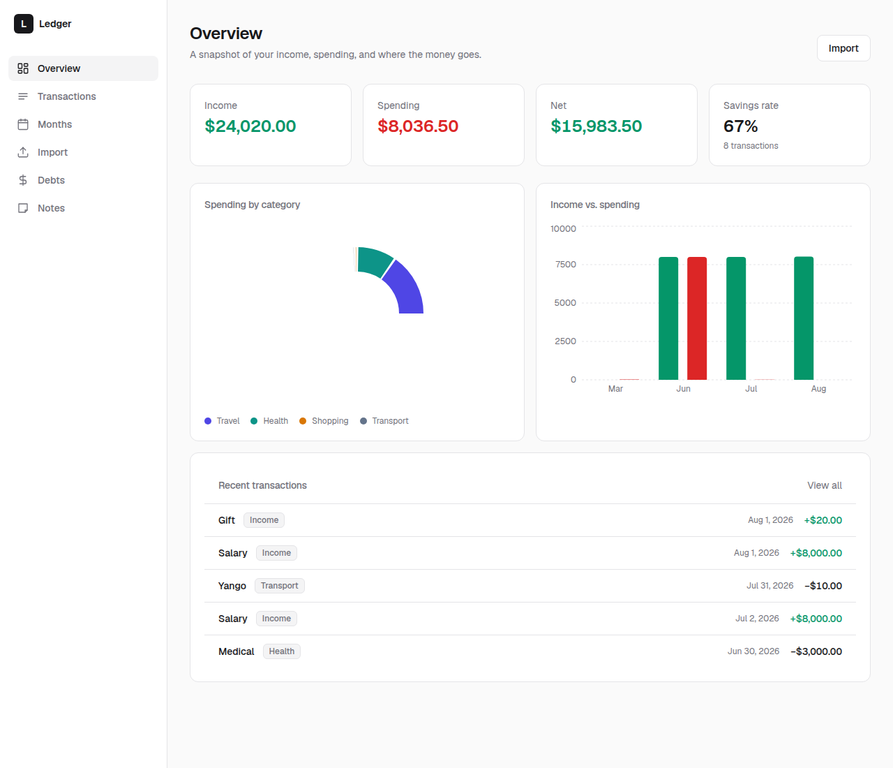
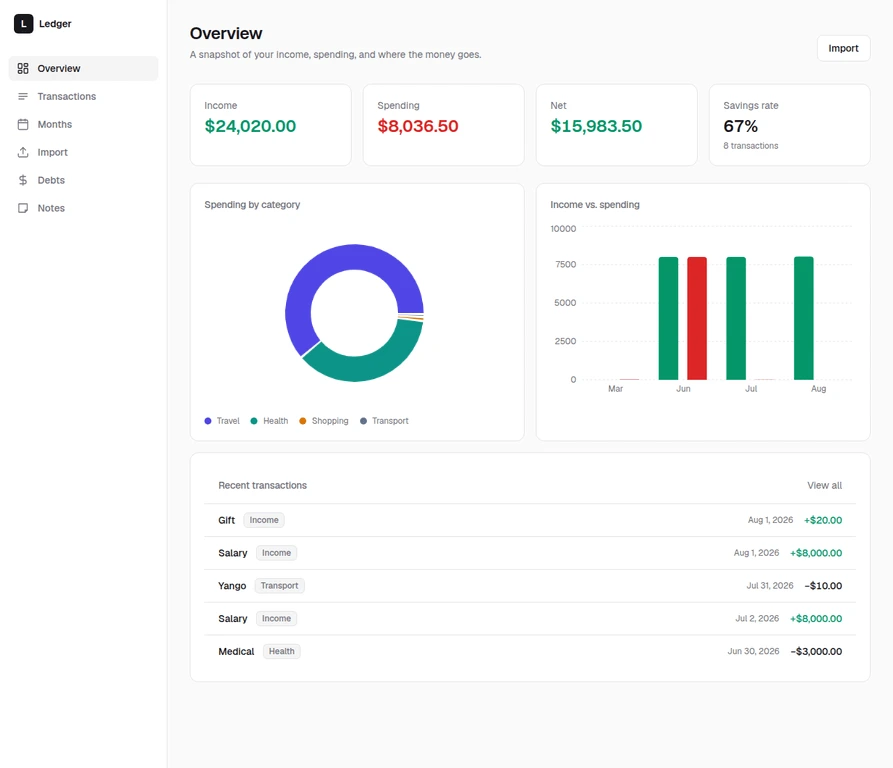
Update project previews: fix resume button issue

diff --git a/client/src/index.css b/client/src/index.css
@@ -85,14 +85,14 @@ button { font: inherit; }
 
 .hero-stage { height: 190vh; position: relative; }
 .hero-sticky { height: 100vh; position: sticky; top: 0; overflow: hidden; display: flex; align-items: center; justify-content: center; background: radial-gradient(circle at 50% 47%, #1b2732 0%, #121923 45%, #10151e 76%); }
-.hero-grid { position: absolute; inset: 0; opacity: .23; background-image: linear-gradient(rgba(157,191,181,.12) 1px, transparent 1px), linear-gradient(90deg, rgba(157,191,181,.12) 1px, transparent 1px); background-size: 72px 72px; mask-image: radial-gradient(ellipse at center, black 0%, transparent 72%); }
+.hero-grid { position: absolute; inset: 0; opacity: .23; background-image: linear-gradient(rgba(157,191,181,.12) 1px, transparent 1px), linear-gradient(90deg, rgba(157,191,181,.12) 1px, transparent 1px); background-size: 72px 72px; mask-image: radial-gradient(ellipse at center, black 0%, transparent 72%); pointer-events: none; }
 .hero-orb { position: absolute; border-radius: 50%; filter: blur(1px); opacity: .28; pointer-events: none; }
 .orb-one { width: 27vw; height: 27vw; right: -10vw; top: 17vh; background: #8d79ff; filter: blur(90px); }
 .orb-two { width: 22vw; height: 22vw; left: -9vw; bottom: 8vh; background: #5de99c; filter: blur(90px); }
 .hero-label { position: absolute; top: 50%; z-index: 2; display: flex; flex-direction: column; gap: 12px; color: #72808b; font-size: 9px; line-height: 1.2; letter-spacing: .17em; text-transform: uppercase; writing-mode: vertical-rl; }
 .hero-label-left { left: clamp(18px, 3vw, 55px); transform: translateY(-50%) rotate(180deg); }
 .hero-label-right { right: clamp(18px, 3vw, 55px); transform: translateY(-50%); }
-.monitor-scene { position: absolute; top: 50%; left: 50%; width: min(1240px, 110vw); height: min(820px, 88vh); perspective: 1300px; transform: translate(-50%, -50%); transition: opacity .12s linear; }
+.monitor-scene { position: absolute; z-index: 3; top: 50%; left: 50%; width: min(1240px, 110vw); height: min(820px, 88vh); perspective: 1300px; transform: translate(-50%, -50%); transition: opacity .12s linear; pointer-events: none; }
 .monitor { position: absolute; left: 50%; top: 50%; width: min(1160px, 110%); aspect-ratio: 1.38; transform-origin: 50% 48%; transform-style: preserve-3d; transition: transform .12s linear; }
 .monitor::after { content: ""; position: absolute; left: 8%; right: 8%; bottom: -36px; height: 46px; background: rgba(0,0,0,.42); filter: blur(22px); transform: rotateX(76deg) translateZ(-5px); }
 .monitor-topline { height: 32px; padding: 0 29px; display: flex; align-items: center; justify-content: space-between; background: #46515b; color: #a5b1b3; border-radius: 22px 22px 0 0; border: 1px solid rgba(221,232,224,.14); border-bottom: 0; font: 600 9px "Space Grotesk", sans-serif; letter-spacing: .14em; }
@@ -112,7 +112,7 @@ button { font: inherit; }
 .screen-role { margin: 22px 0 0; color: #9be5a9; font-size: clamp(14px, 1.7vw, 20px); letter-spacing: -.03em; }
 .screen-role span { color: #ff9a82; padding: 0 8px; }
 .screen-copy { max-width: 440px; margin: 20px 0 0; color: #77ba87; font: 400 12px/1.6 "DM Sans", sans-serif; letter-spacing: .02em; text-shadow: none; }
-.screen-actions { display: flex; align-items: center; gap: 26px; margin-top: 30px; font: 500 10px "Space Grotesk", sans-serif; text-transform: uppercase; letter-spacing: .12em; }
+.screen-actions { display: flex; align-items: center; gap: 26px; margin-top: 30px; font: 500 10px "Space Grotesk", sans-serif; text-transform: uppercase; letter-spacing: .12em; pointer-events: auto; }
 .screen-actions a { display: inline-flex; align-items: center; gap: 7px; padding-bottom: 7px; color: #d9ffd3; border-bottom: 1px solid #89e99c; }
 .screen-actions .resume-action { padding: 8px 10px; color: #10251d; background: #b7ffc1; border: 0; box-shadow: 3px 3px 0 rgba(0,0,0,.22); transition: transform .18s ease, box-shadow .18s ease; }
 .screen-actions .resume-action:hover { transform: translate(-1px, -1px); box-shadow: 4px 4px 0 rgba(0,0,0,.22); }
@@ -551,5 +551,32 @@ h2 span { color: var(--primary); }
     aspect-ratio: 1.48;
     margin-bottom: 16px;
     padding: 7px;
+  }
+}
+
+/* Keep each project's full preview set in sequence, regardless of its image count. */
+.work-preview-image {
+  opacity: 0;
+  animation-duration: calc(var(--slide-count) * 2.7s);
+  animation-fill-mode: both;
+}
+
+.contact-art {
+  pointer-events: none;
+}
+
+.contact-link,
+.contact-links,
+.contact-links a {
+  pointer-events: auto;
+}
+
+@media (max-width: 800px) {
+  .work-preview small {
+    display: block;
+  }
+
+  .work-preview .preview-hint {
+    display: none;
   }
 }

diff --git a/client/src/pages/Home.tsx b/client/src/pages/Home.tsx
@@ -133,7 +133,7 @@ const work = [
     description: "A professional networking and job portal with role-based access, social feed, recruitment workflows, and resume generation.",
     stack: ["Next.js", "MongoDB", "Auth.js"],
     href: "https://web-talentforge.vercel.app/",
-    preview: ["/project-previews/talentforge.webp", "/project-previews/talentforge-jobs.webp", "/project-previews/talentforge-jobs-lower.webp", "/project-previews/talentforge-resume.webp"],
+    preview: ["/project-previews/talentforge.webp", "/project-previews/talentforge-jobs.webp", "/project-previews/talentforge-resume.webp"],
     accent: "mint",
   },
   {
@@ -142,7 +142,7 @@ const work = [
     description: "A handcrafted portfolio system designed around a retro-computing interface, live product storytelling, and a playful but performance-minded frontend.",
     stack: ["React", "TypeScript", "CSS 3D"],
     href: "",
-    preview: ["/project-previews/portfolio.png"],
+    preview: ["/project-previews/portfolio.png", "/project-previews/portfolio-skills.webp"],
     accent: "blue",
   },
   {
@@ -278,7 +278,7 @@ export default function Home() {
 
         <section id="work" className="work-section section-pad">
           <div className="section-heading"><div><div className="section-index">03 / SELECTED WORK</div><h2>Things I&apos;ve <span>made real.</span></h2></div><p>A small selection of products I&apos;ve built, plus one client property brought to life from supplied design.</p></div>
-          <div className="work-list">{work.map((item) => { const content = <>{item.preview.length ? <div className="work-preview" aria-hidden="true"><div className="preview-slides">{item.preview.map((src, index) => <img className="work-preview-image" src={src} alt="" style={{ "--slide-index": index, "--slide-count": item.preview.length } as React.CSSProperties} key={src} />)}</div><small>live preview / {item.title} · hover to roll</small></div> : null}<div className="work-card-top"><span className="work-number">{item.number}</span><span className="work-arrow">{item.href ? <ArrowUpRight size={21} /> : <span className="work-lock">—</span>}</span></div><div className="work-card-body"><h3>{item.title}</h3><p>{item.description}</p><div className="work-stack">{item.stack.map((tag) => <span key={tag}>{tag}</span>)}</div></div><div className="work-card-line" /></>; return item.href ? <a className={`work-card work-${item.accent}`} href={item.href} target={item.href.startsWith("http") ? "_blank" : undefined} rel={item.href.startsWith("http") ? "noreferrer" : undefined} key={item.number}>{content}</a> : <div className={`work-card work-${item.accent} work-card-static`} key={item.number}>{content}</div>; })}</div>
+          <div className="work-list">{work.map((item) => { const content = <>{item.preview.length ? <div className="work-preview" aria-hidden="true"><div className="preview-slides">{item.preview.map((src, index) => <img className="work-preview-image" src={src} alt="" style={{ "--slide-index": index, "--slide-count": item.preview.length } as React.CSSProperties} key={src} />)}</div><small>live preview / {item.title}<span className="preview-hint"> · hover to roll</span></small></div> : null}<div className="work-card-top"><span className="work-number">{item.number}</span><span className="work-arrow">{item.href ? <ArrowUpRight size={21} /> : <span className="work-lock">—</span>}</span></div><div className="work-card-body"><h3>{item.title}</h3><p>{item.description}</p><div className="work-stack">{item.stack.map((tag) => <span key={tag}>{tag}</span>)}</div></div><div className="work-card-line" /></>; return item.href ? <a className={`work-card work-${item.accent}`} href={item.href} target={item.href.startsWith("http") ? "_blank" : undefined} rel={item.href.startsWith("http") ? "noreferrer" : undefined} key={item.number}>{content}</a> : <div className={`work-card work-${item.accent} work-card-static`} key={item.number}>{content}</div>; })}</div>
         </section>
 
         <section id="skills" className="skills-section section-pad">
